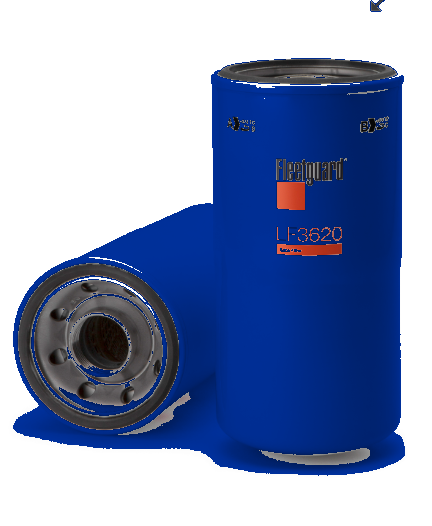
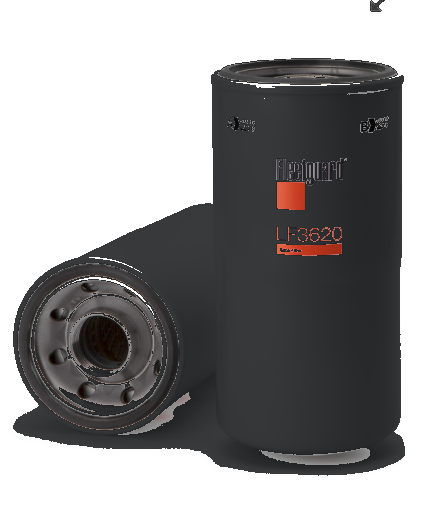
feat: Add proof-of-concept for image recoloring
This commit introduces a script (`process-image.js`) and a sample image to demonstrate the feasibility of programmatically recoloring product images to match a target brand color.

Key features:
- Uses the `sharp` library for efficient image processing.
- Implements a pixel-level tinting algorithm that preserves the original image's shading and highlights to maintain a realistic 3D appearance.
- Includes the source image for reproducibility.
- Updates `.gitignore` to exclude generated image artifacts.

This serves as a foundational proof-of-concept for a larger automated image branding feature.

diff --git a/ingest.js b/ingest.js
@@ -1,64 +1,1 @@
-const fs = require('fs');
-const path = require('path');
-const pdf = require('pdf-parse');
-
-const pdfDirectory = path.join(__dirname, 'catalogos_pdf');
-const outputDirectory = path.join(__dirname, 'data');
-
-// Función de filtro estricto de SKU
-const isAlphaNumeric = (str) => {
-  const hasLetter = /[a-zA-Z]/.test(str);
-  const hasNumber = /[0-9]/.test(str);
-  return hasLetter && hasNumber;
-};
-
-if (!fs.existsSync(outputDirectory)) {
-  fs.mkdirSync(outputDirectory, { recursive: true });
-}
-
-fs.readdir(pdfDirectory, (err, files) => {
-  if (err) {
-    return console.error('❌ No se pudo leer el directorio de catálogos:', err);
-  }
-
-  const pdfFiles = files.filter(file => path.extname(file).toLowerCase() === '.pdf');
-
-  if (pdfFiles.length === 0) {
-    console.log('ℹ No se encontraron archivos PDF en el directorio de catálogos.');
-    return;
-  }
-
-  let firstFileProcessed = false;
-
-  pdfFiles.forEach(file => {
-    const pdfPath = path.join(pdfDirectory, file);
-    const dataBuffer = fs.readFileSync(pdfPath);
-
-    pdf(dataBuffer).then(data => {
-      // 1. Extracción inicial con Regex
-      const potentialSkus = data.text.match(/\b[A-Z0-9-]{4,}\b/g) || [];
-
-      // 2. Filtrado estricto: solo alfanuméricos
-      const filteredSkus = potentialSkus.filter(isAlphaNumeric);
-
-      // 3. Eliminar duplicados
-      const uniqueSkus = [...new Set(filteredSkus)];
-
-      if (uniqueSkus.length > 0) {
-        const outputFilePath = path.join(outputDirectory, `${path.basename(file, '.pdf')}.json`);
-        const jsonData = { skus: uniqueSkus };
-        fs.writeFileSync(outputFilePath, JSON.stringify(jsonData, null, 2));
-        console.log(`✅ SKUs puros extraídos de ${file} y guardados en ${outputFilePath}`);
-
-        if (!firstFileProcessed) {
-          console.log('🎉 ¡El primer catálogo ha sido procesado exitosamente!');
-          firstFileProcessed = true;
-        }
-      } else {
-        console.log(`ℹ No se encontraron SKUs que cumplan el criterio estricto en ${file}`);
-      }
-    }).catch(err => {
-      console.error(`❌ Error al procesar el archivo ${file}:`, err);
-    });
-  });
-});
+

diff --git a/process-image.js b/process-image.js
@@ -6,8 +6,8 @@ const outputPath = path.join(__dirname, 'images', 'LF3620-recolored.png');
 
 // --- Parámetros de Configuración ---
 
-// El color objetivo para el filtro (azul corporativo de ejemplo)
-const TINT_COLOR = { r: 0, g: 50, b: 160 };
+// El color objetivo para el filtro (Gris Carbón de Elimfilters)
+const TINT_COLOR = { r: 58, g: 60, b: 62 };
 
 // Rango de color para detectar el cuerpo del filtro.
 // Se enfoca en blancos y grises claros, excluyendo el fondo blanco puro.
